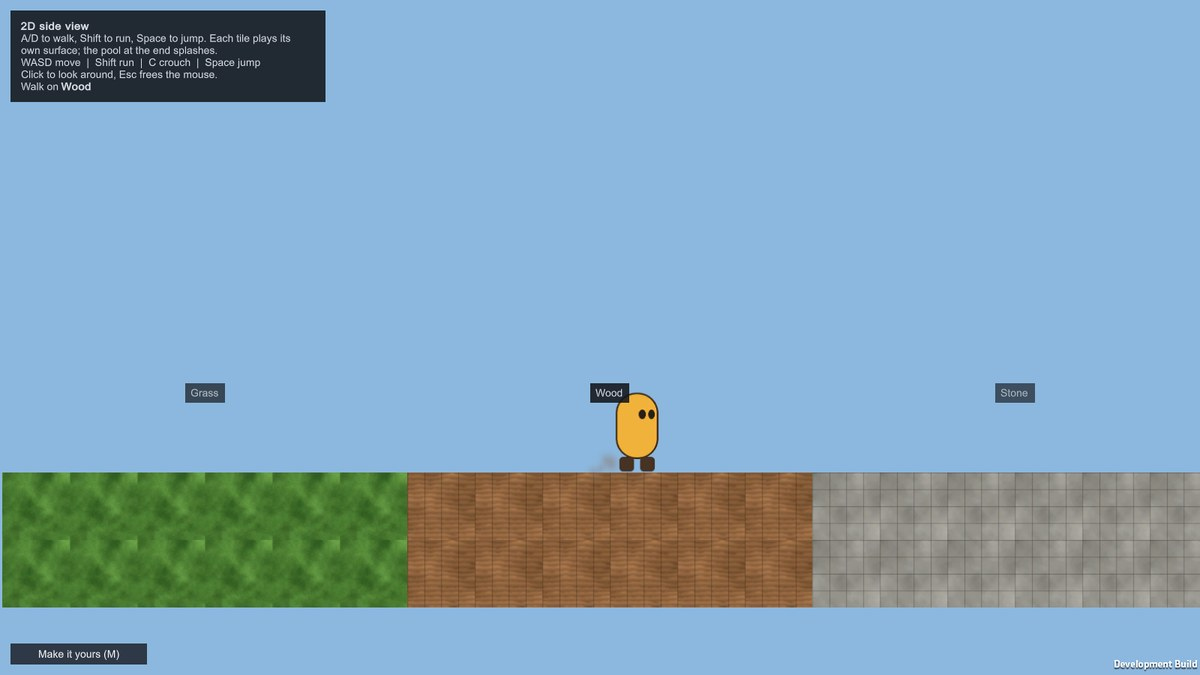
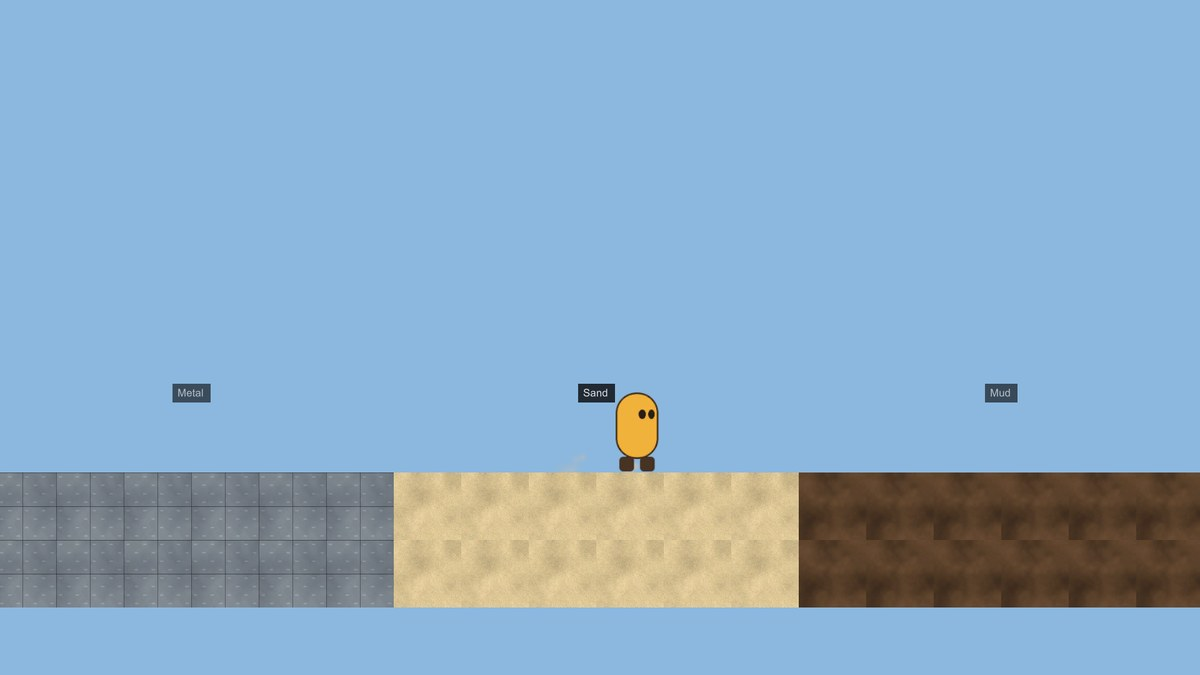
Footstep Kit page: new demo captures (release build, close-ups)

diff --git a/footstep-kit/index.html b/footstep-kit/index.html
@@ -172,7 +172,7 @@
     </div>
     <div class="gallery">
       <figure class="shot">
-        <div class="shot-frame"><img src="../assets/img/footstep-snow.jpg" width="1200" height="675" loading="lazy" decoding="async" alt="Footprints left in snow in the Feature Gallery demo"></div>
+        <div class="shot-frame"><img src="../assets/img/footstep-snow.jpg" width="1200" height="675" loading="lazy" decoding="async" alt="Close-up of footprints left in snow in the Feature Gallery demo"></div>
         <figcaption>Footprints that fade, on the surfaces you choose</figcaption>
       </figure>
       <figure class="shot">
@@ -184,7 +184,7 @@
         <figcaption>The Setup Wizard maps your scene's surfaces</figcaption>
       </figure>
       <figure class="shot">
-        <div class="shot-frame"><img src="../assets/img/footstep-2d.jpg" width="1200" height="675" loading="lazy" decoding="async" alt="The 2D demo: a character walking across grass, wood and stone tiles"></div>
+        <div class="shot-frame"><img src="../assets/img/footstep-2d.jpg" width="1200" height="675" loading="lazy" decoding="async" alt="The 2D demo: a character walking across metal, sand and mud tiles"></div>
         <figcaption>2D side view: every tile plays its own surface</figcaption>
       </figure>
     </div>
